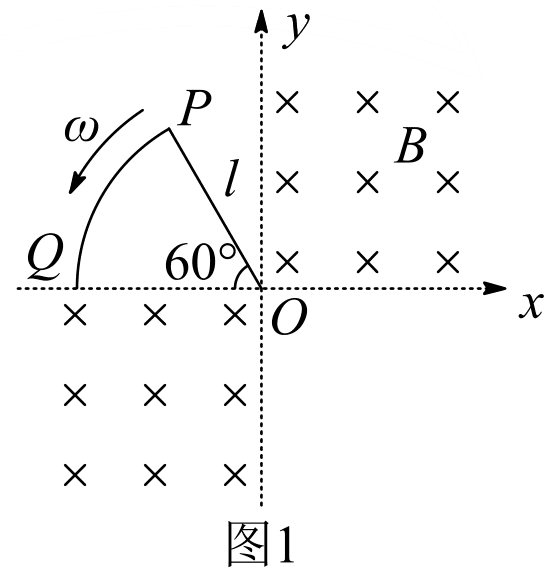
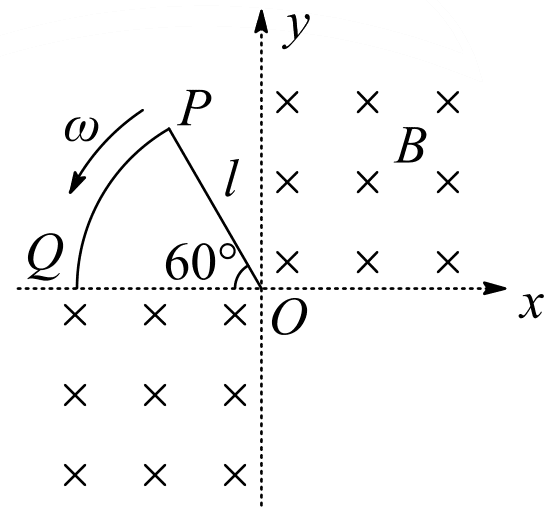
2003 版面收尾：修复表格/填空溢出、去除广东广西第 18 题图内烙字并统一编号、规范旧课程配图尺寸

diff --git a/试卷/2003/广东综合/广东综合.tex b/试卷/2003/广东综合/广东综合.tex
@@ -182,8 +182,11 @@
 %% degree: 650
 %% duplicateId: 0
 %% body:
-二氧化碳能强烈吸收红外长波辐射，这种长波辐射的波长范围约是 $1.4\times10^{-3}\sim6\times10^{-3}$，相应的频率范围是\tkanswer[4cm]{$2.1\times10^{12}\sim1.9\times10^{13}\UHz$}，相应的光子能量范围是\tkanswer[4cm]{$1.4\times10^{-20}\sim1.3\times10^{-20}\UJ$}。“温室效应”使大气全年的平均温度升高，空气温度升高，从微观上看就是空气中分子的\tkanswer[3cm]{无规则运动（或热运动）更剧烈，无规则运动（或热运动）的平均动能更大}。（已知普朗克恒量 $h = 6.6\times10^{-34}\UJcdots$，真空中的光速 $c = 3.0\times10^{8}\Umdsn$。结果取两位数字。）
+二氧化碳能强烈吸收红外长波辐射，这种长波辐射的波长范围约是 $1.4\times10^{-3}\sim6\times10^{-3}$，相应的频率范围是\tkanswer[2.0cm]{}，相应的光子能量范围是\tkanswer[2.0cm]{}。“温室效应”使大气全年的平均温度升高，空气温度升高，从微观上看就是空气中分子的\tkanswer[2.2cm]{}。（已知普朗克恒量 $h=6.6\times10^{-34}\UJcdots$，真空中的光速 $c=3.0\times10^{8}\Umdsn$。结果取两位数字。）
 %% answer: H
+\jdanswer{
+$2.1\times10^{12}\sim1.9\times10^{13}\UHz$；$1.4\times10^{-20}\sim1.3\times10^{-20}\UJ$；无规则运动（或热运动）更剧烈、平均动能更大。
+}
 %% memo:
 \memoanswer{
 本题原卷及材料中未提供详解，待补充。

diff --git a/试卷/2003/广东广西/广东广西.tex b/试卷/2003/广东广西/广东广西.tex
@@ -52,7 +52,7 @@
 	\item
 	如果是用直流 $5\UmA$ 挡测量电流，则读数为\tkanswer[1.6cm]{3.25}$\UmA$。
 \end{enumerate}
-\onepicture[align=right]{figs/11.png}
+\onepicture[w=8.0cm, align=right]{figs/11.png}
 %% answer:
 \jdanswer{
 \begin{enumerate}
@@ -90,7 +90,7 @@
 	\item
 	在图 2 上画出线框转一周的时间内感应电流 $I$ 随时间 $t$ 变化的图象。（规定与图 1 中线框的位置相应的时刻为 $t=0$）
 \end{enumerate}
-\twopicture[labelA=2003广东广西18a, labelB=2003广东广西18b, align=right]
+\twopicture[numstyle=arabic, numA=1, numB=2, labelA=2003广东广西18a, labelB=2003广东广西18b, wA=5.2cm, wB=7.0cm, align=right]
 {figs/18a.png}
 {figs/18b.png}
 %% answer:

diff --git a/试卷/2003/上海/上海.tex b/试卷/2003/上海/上海.tex
@@ -465,7 +465,7 @@ $\frac{GM}{r^{2}}$。
 	{实验时外界大气压强发生了变化}
 	{实验时注射器内的空气向外发生了泄漏}
 	\item
-	根据你在（1）中的选择，说明为了减小误差，应采取的措施是：\tkanswer[5.2cm]{在注射器活塞上涂上润滑油增加密封性}。
+	根据你在（1）中的选择，说明为了减小误差，应采取的措施是：\tkanswer[3.4cm]{在注射器活塞上涂上润滑油增加密封性}。
 \end{enumerate}
 
 \onepicture[align=right, w=5.6cm]{\includesvg{figs/17}}

diff --git a/试卷/2003/全国理综旧课程/全国理综旧课程.tex b/试卷/2003/全国理综旧课程/全国理综旧课程.tex
@@ -44,7 +44,7 @@
 %% duplicateId: 0
 %% body:
 图中虚线所示为静电场中的等势面 1、2、3、4，相邻的等势面之间的电势差相等，其中等势面 3 的电势为 0。一带正电的点电荷在静电力的作用下运动，经过 a、b 点时的动能分别为 $26\UeV$ 和 $5\UeV$。当这一点电荷运动到某一位置，其电势能变为 $-8\UeV$ 时，它的动能应为\xzanswer{C}
-\onepicture[align=right]{figs/21.png}
+\onepicture[w=6.0cm, align=right]{figs/21.png}
 \fourchoices[answer=C]
 {$8\UeV$}
 {$13\UeV$}

diff --git a/试卷/2003/上海理综/上海理综.tex b/试卷/2003/上海理综/上海理综.tex
@@ -129,7 +129,7 @@
 某品牌电动自行车的铭牌如下：
 
 \begin{center}
-\begin{tblr}{|l|l|}
+\begin{tblr}{colspec={|X[l]|X[l]|}, width=\linewidth}
 \hline
 车型：20 吋（车轮直径：$508\Umm$） & 电池规格：$36\UV$、$12\UAh$（蓄电池） \\
 \hline

diff --git a/试卷/2003/README.md b/试卷/2003/README.md
@@ -8,9 +8,9 @@
 | :--- | :-- | :--- | :-- | :-- | :--- | :--- |
 | [上海](上海/) | 23 | 已完成 | 24 | — | — | 独立卷；四选项图/复合图拆分、答案图回填、全题详解（部分取参考答案）、双版编译、`make check` |
 | [全国](全国/) | 20 | 已完成 | 16 | — | — | 独立卷；复合图拆分、全题详解、双版编译、`make check` |
-| [全国理综新课程](全国理综新课程/) | 11 | 已完成 | 12 | — | 理综物理部分 | 理综节选；第 23 题多小问、答案电路图/解析图回填、全题详解、双版编译、`make check` |
+| [全国理综新课程](全国理综新课程/) | 11 | 已完成 | 13 | — | 理综物理部分 | 理综节选；第 23 题多小问、答案电路图/解析图回填、全题详解、双版编译、`make check` |
 | [全国春季理综](全国春季理综/) | 10 | 已完成 | 10 | — | 理综物理部分 | 理综节选；JSON 图失效、从 PDF 提图与复合图拆分、双版编译、`make check`（15–20、27 缺详解占位） |
-| [上海理综](上海理综/) | 9 | 已完成 | 3 | — | 理综物理部分 | 理综节选；从 PDF 提图、双版编译、`make check`（全卷缺详解占位） |
+| [上海理综](上海理综/) | 9 | 已完成 | 2 | — | 理综物理部分 | 理综节选；从 PDF 提图、双版编译、`make check`（全卷缺详解占位） |
 | [广东综合](广东综合/) | 7 | 已完成 | 4 | — | 综合能力测试物理部分 | 综合能力测试物理部分；平台题号错位（37↔38）、双版编译、`make check`（全卷缺详解占位） |
 | [全国理综旧课程](全国理综旧课程/) | 3 | 已完成 | 2 | — | 理综物理部分 | 理综节选；仅平台 JSON（无 PDF/Docx）、双版编译、`make check` |
 | [广东广西](广东广西/) | 3 | 已完成 | 4 | — | — | 独立卷；仅平台 JSON（无 PDF/Docx）、第 18 题答案图回填、双版编译、`make check` |
